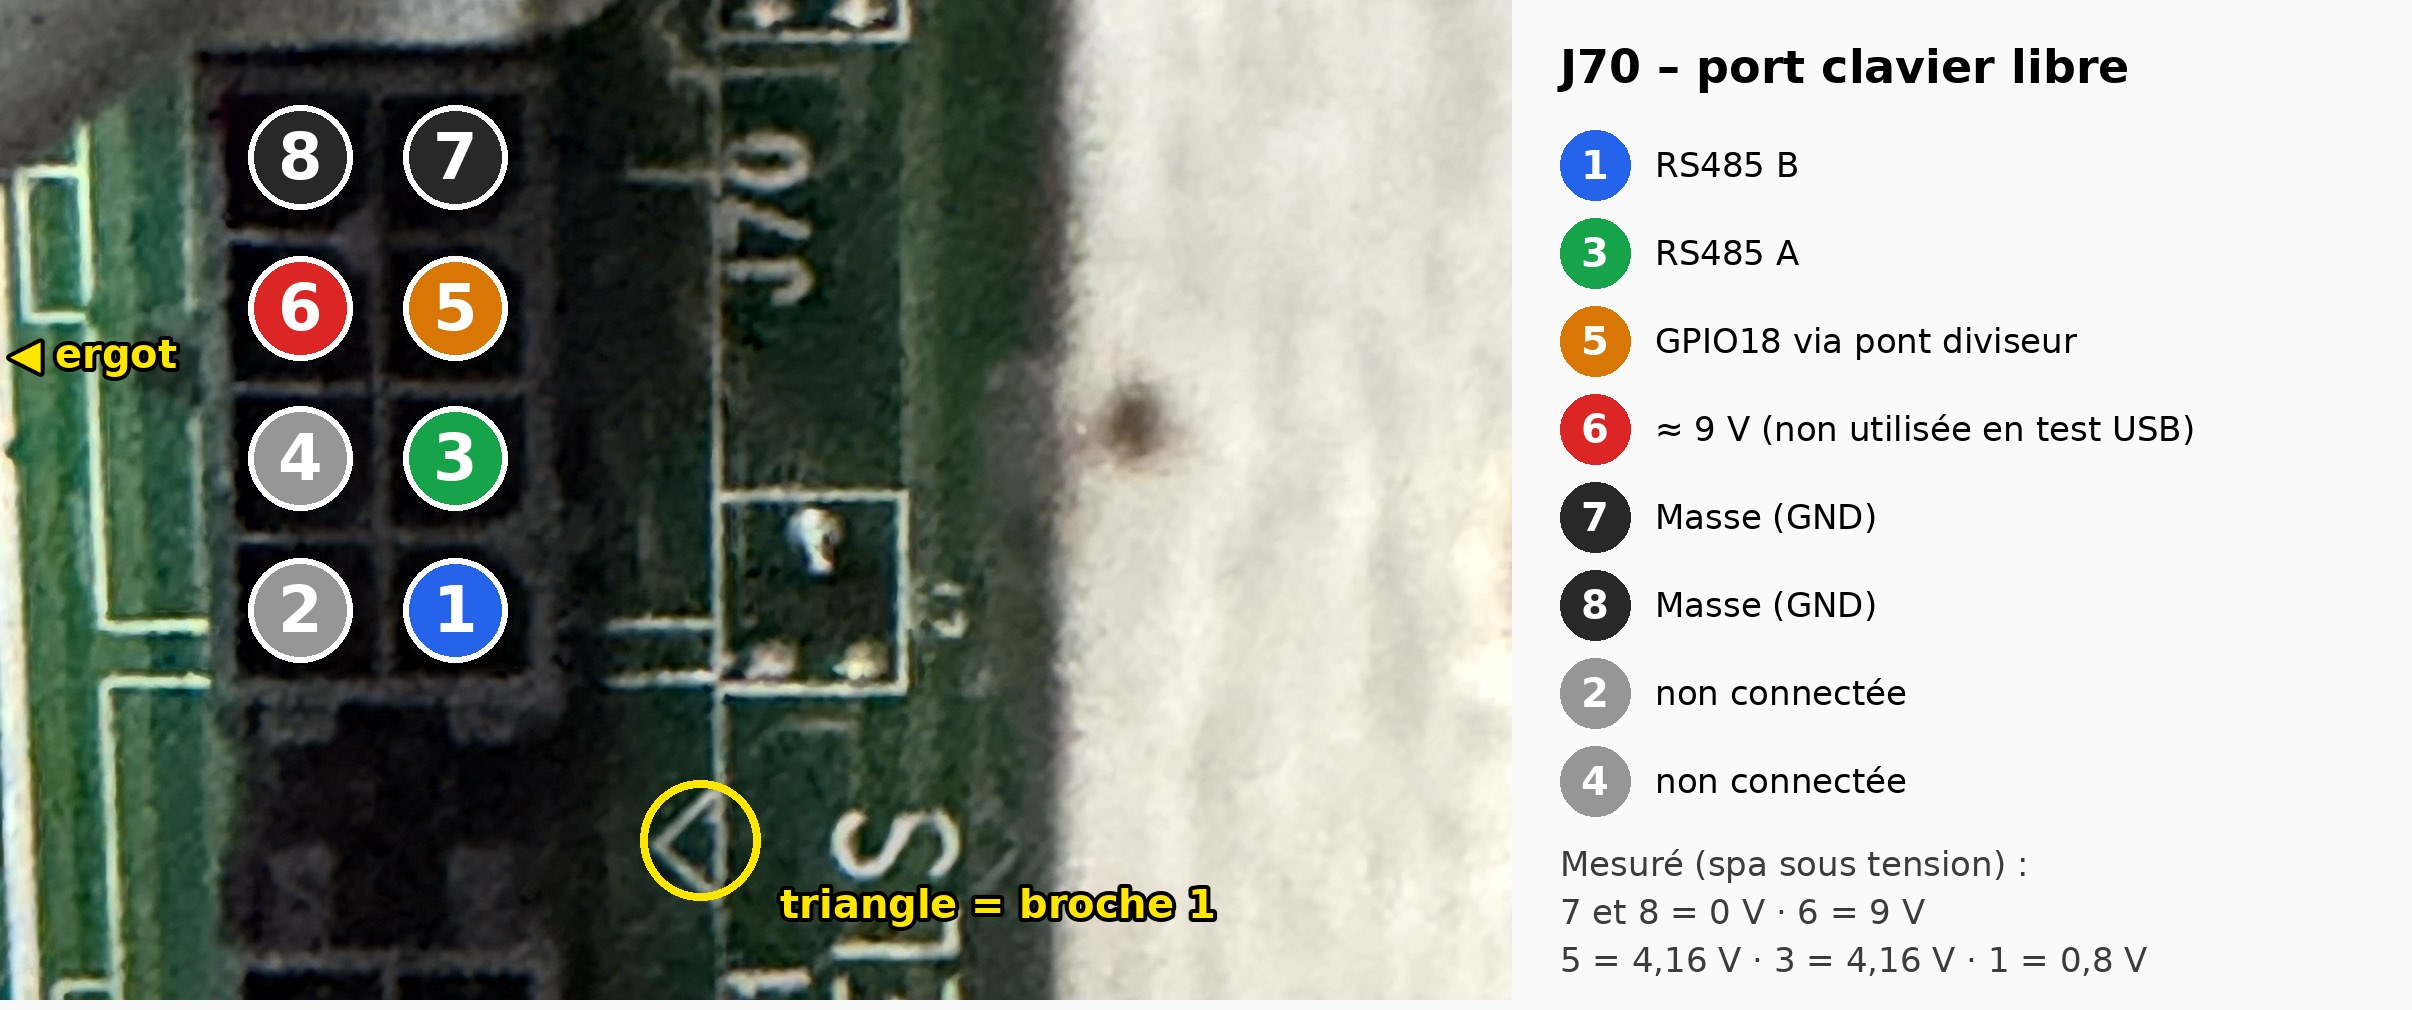
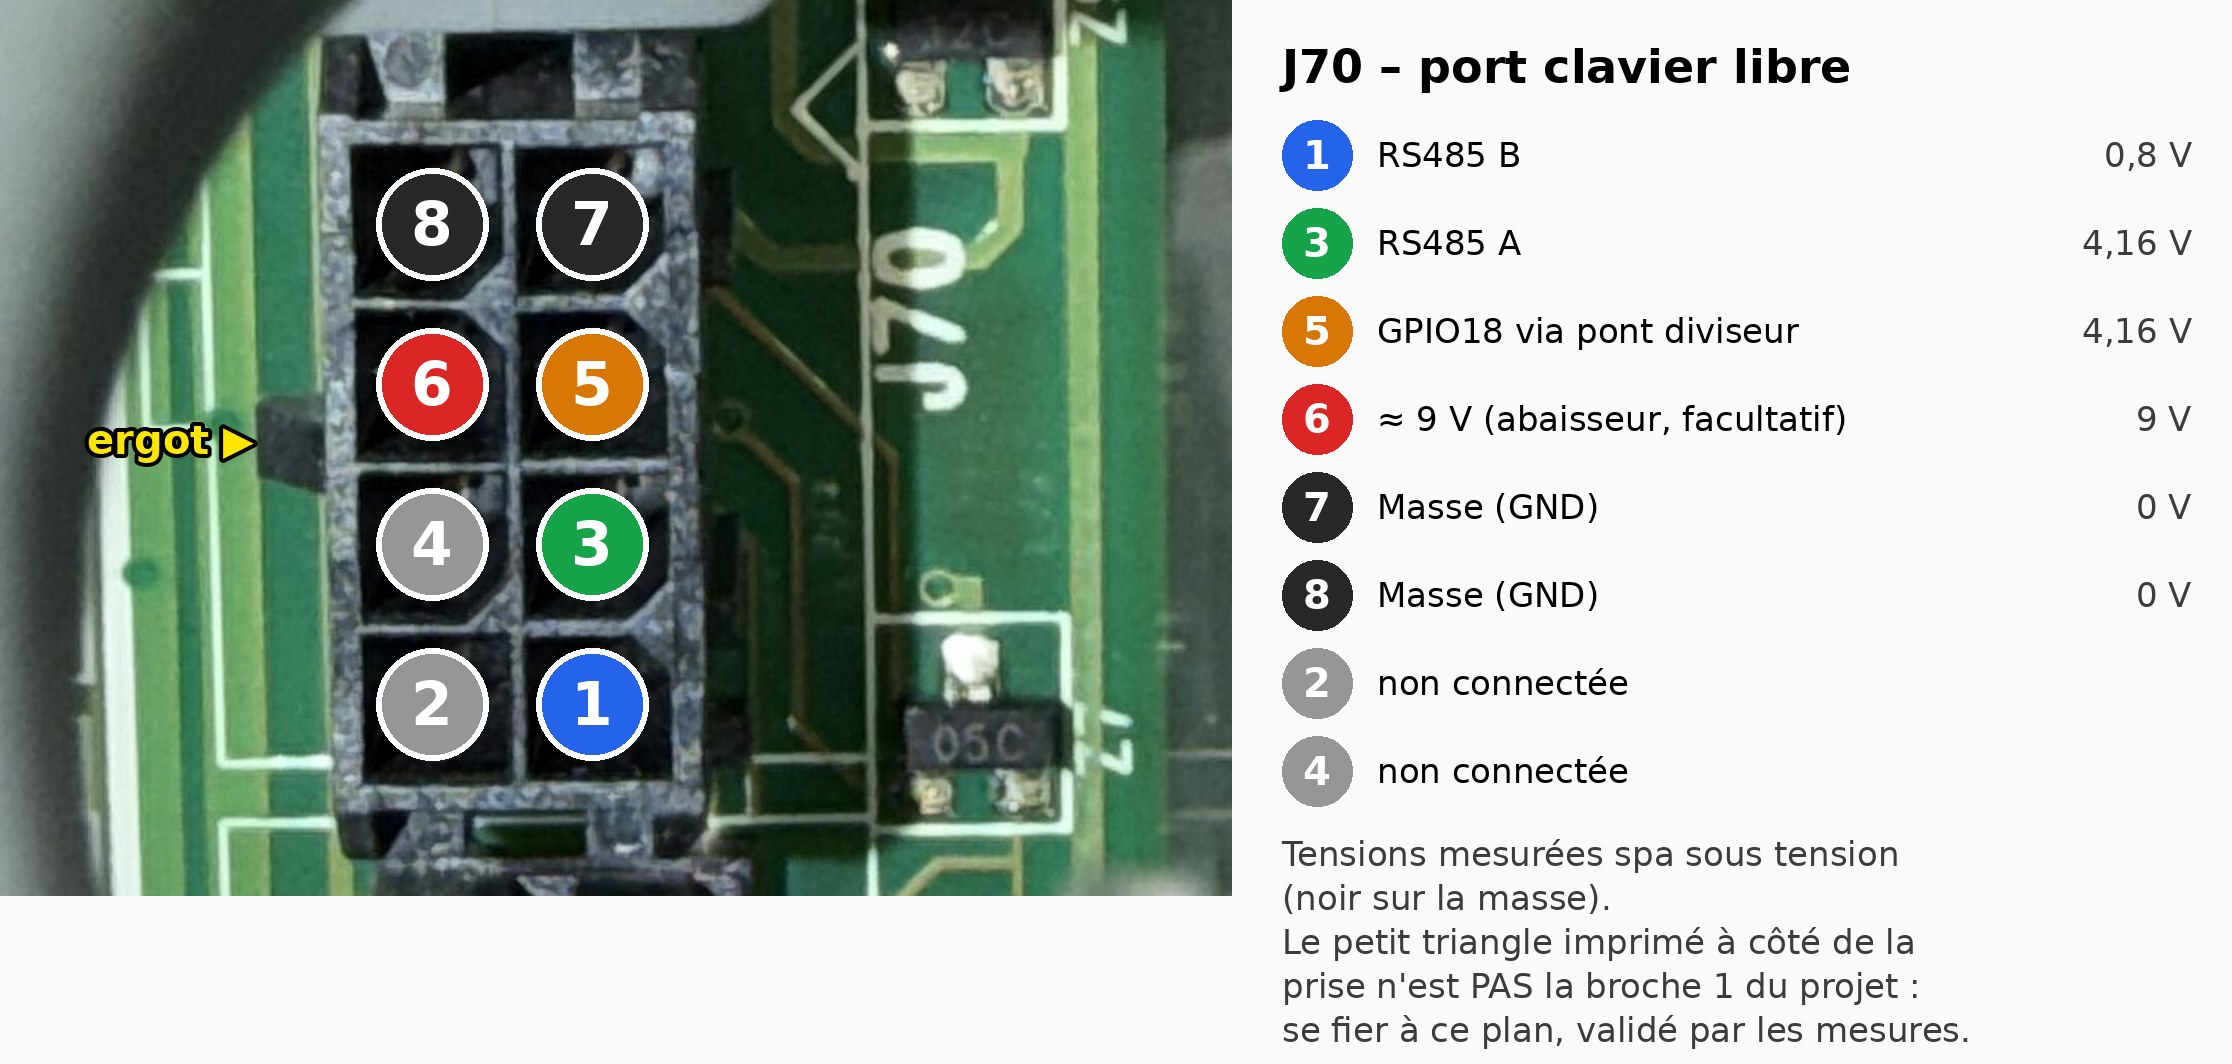
README : nouvelle photo de J70, pont diviseur en 3 × 4,7 kΩ, précision sur le triangle de la carte
Claude-Session: https://claude.ai/code/session_01QecKjxa68Ae7mJvySBfe33

diff --git a/README.md b/README.md
@@ -30,7 +30,7 @@ Changements par rapport à l'original :
 | ESP32 DevKit (ESP-WROOM-32), USB-C | 30 ou 38 broches, les deux conviennent |
 | Module TTL–RS485 à contrôle **automatique** de direction | broches TXD, RXD, VCC, GND, **sans** RE/DE |
 | Câble Molex **Micro-Fit 3.0**, 8 broches (prise 43025-0800), fils nus | pas de 3 mm, vérifié sur la prise du ML700 |
-| 2 résistances : **10 kΩ** et **20 kΩ** (ou 3 × 10 kΩ) | pont diviseur de la broche 5 |
+| **3 résistances de 4,7 kΩ** (ou tout couple de rapport 1:2 entre 1 et 47 kΩ) | pont diviseur de la broche 5 |
 | Chargeur USB 5 V + câble USB-C | alimentation pour le test |
 | Câbles Dupont, gaine thermorétractable, boîtier IP65, presse-étoupe PG7 | montage final |
 | *Facultatif :* abaisseur 5 V à sortie USB, entrée dès 6 V | pour alimenter l'ESP32 par le spa (broche 6), voir « Alimentation » |
@@ -41,7 +41,9 @@ Les ports clavier « MAIN PANELS » sont **J70 à J73**. Sur ce spa, le clavier 
 
 ### Repérage des broches de J70
 
-Sur la carte, la prise est verticale, avec **l'ergot à gauche**. Un **petit triangle** imprimé sous la prise, côté droit, repère la **broche 1**. C'est l'inverse de la photo du projet d'origine, où la prise est tournée d'un demi-tour.
+Sur la carte, la prise est verticale, avec **l'ergot à gauche** : **masses (7, 8) en haut, broche 1 en bas à droite**. C'est l'inverse de la photo du projet d'origine, où la prise est tournée d'un demi-tour.
+
+**Attention :** le petit triangle imprimé à côté de la prise (en haut à droite) suit la numérotation du fabricant, **pas celle du projet**. Ne pas s'y fier : le plan ci-dessous est validé par les mesures de tension.
 
 ![Brochage de J70 sur la carte GL8000](docs/brochage-J70.jpg)
 
@@ -68,17 +70,23 @@ Sur la carte, la prise est verticale, avec **l'ergot à gauche**. Un **petit tri
 
 ### Pont diviseur de la broche 5 (obligatoire)
 
-La broche 5 est un signal en **5 V** (mesuré : ≈ 5 V). L'ESP32 accepte **3,6 V au maximum** sur ses entrées. Le projet d'origine la relie directement au GPIO18 ; ici, on protège l'ESP32 :
+La broche 5 est un signal en **5 V** (mesuré : 4,16 V en moyenne). L'ESP32 accepte **3,6 V au maximum** sur ses entrées. Le projet d'origine la relie directement au GPIO18 ; ici, on protège l'ESP32 avec **3 résistances de 4,7 kΩ** :
 
 ```
-Broche 5 du spa ──[ R1 10 kΩ ]──┬── GPIO18 (ESP32)
-                                │
-                           [ R2 20 kΩ ]   (ou 2 × 10 kΩ en série)
-                                │
-Broche 7 (masse) ───────────────┴── GND (ESP32)
+Broche 5 du spa ──[ R1 4,7 kΩ ]──┬── GPIO18 (ESP32)
+                                 │
+                            [ R2a 4,7 kΩ ]
+                                 │
+                            [ R2b 4,7 kΩ ]   (R2 = 2 × 4,7 kΩ en série = 9,4 kΩ)
+                                 │
+Broche 7 (masse) ────────────────┴── GND (ESP32)
 ```
 
-Le GPIO18 reçoit ≈ 3,3 V à l'état haut. **Mesurez vos résistances** avant de souder (les résistances bleues à 5 anneaux du tiroir font peut-être 100 Ω : elles ne conviennent pas).
+Tension sur le GPIO18 : 5 V × 9,4 / (4,7 + 9,4) = **3,33 V** à l'état haut, bien reconnue par l'ESP32.
+
+- **Vérification avant de brancher l'ESP32**, spa sous tension : au point milieu (côté GPIO18), le multimètre doit afficher **environ 2,8 V** (moyenne d'un signal qui monte à 3,3 V), **jamais plus de 3,5 V**.
+- **Autres valeurs possibles** (rapport 1:2) : 1 kΩ + 2,2 kΩ, 2,2 kΩ + 4,7 kΩ, 3,3 kΩ + 6,8 kΩ, 4,7 kΩ + 10 kΩ, 10 kΩ + 22 kΩ, ou 3 résistances identiques entre 1 et 47 kΩ (1 en haut, 2 en série en bas).
+- **À éviter** : deux résistances identiques seulement (2,5 V, trop juste), des valeurs **sous 1 kΩ** (trop de courant tiré sur le signal du spa), et le branchement direct.
 
 ### Alimentation
 
@@ -106,11 +114,11 @@ Branchement : broche **6** du spa → entrée **+** du module, broche **7** (ou 
 ## Quand tout est reçu : déroulé du montage
 
 1. **Préparer le câble Micro-Fit :** repérer au multimètre (continuité) quel fil arrive sur les broches 1, 3, 5, 6 et 7 de la prise. Les couleurs des fils ne veulent rien dire. Isoler les fils 2, 4, 6 et 8.
-2. **Souder le pont diviseur** (R1, R2) et le vérifier au multimètre.
+2. **Souder le pont diviseur** (R1 = 4,7 kΩ, R2 = 2 × 4,7 kΩ en série) et vérifier les valeurs au multimètre.
 3. **Câbler** l'ESP32 et le module RS485 selon le schéma, avec une masse commune.
 4. **Installer le firmware** sur l'ESP32 depuis l'ordinateur (voir plus bas), **avant** de le brancher au spa.
 5. **Couper le spa au tableau**, brancher la prise sur **J70**, ergot à gauche comme celle du ML700 sur J72.
-6. Remettre le spa sous tension. Avant de brancher l'ESP32, **mesurer le point milieu du pont diviseur** : ≈ 3,2 à 3,3 V maximum.
+6. Remettre le spa sous tension. Avant de brancher l'ESP32, **mesurer le point milieu du pont diviseur** : environ 2,8 V, jamais plus de 3,5 V.
 7. Brancher l'ESP32 sur le **chargeur USB**, se connecter au Wi-Fi « Jacuzzi-Setup », puis ouvrir **http://jacuzzi.local**.
 8. **Test en lecture seule :** la température et le mode affichés doivent correspondre au ML700.
    - Aucune donnée : **inverser les fils A et B**.
